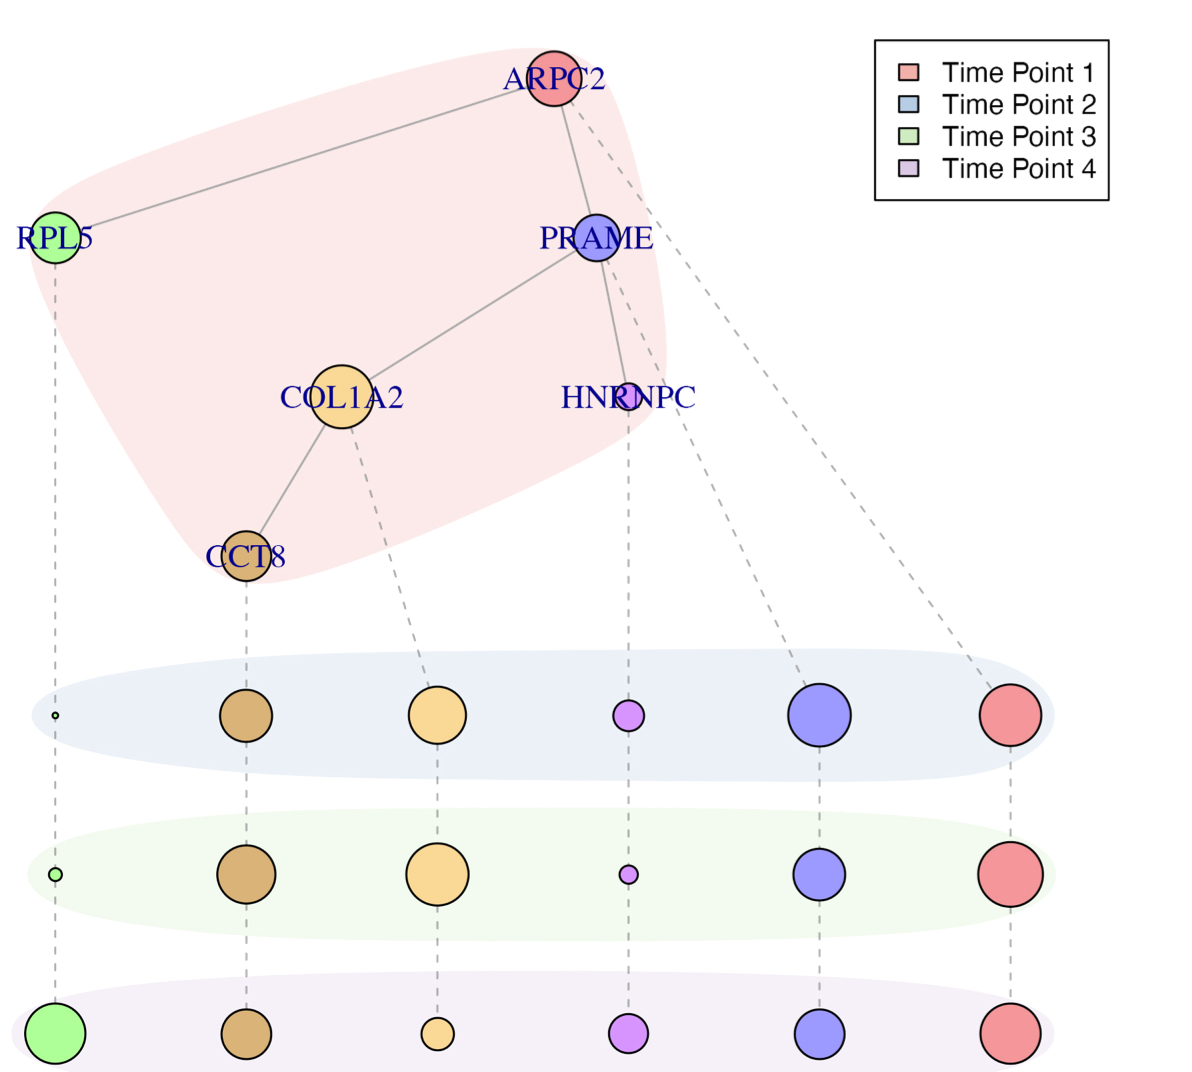
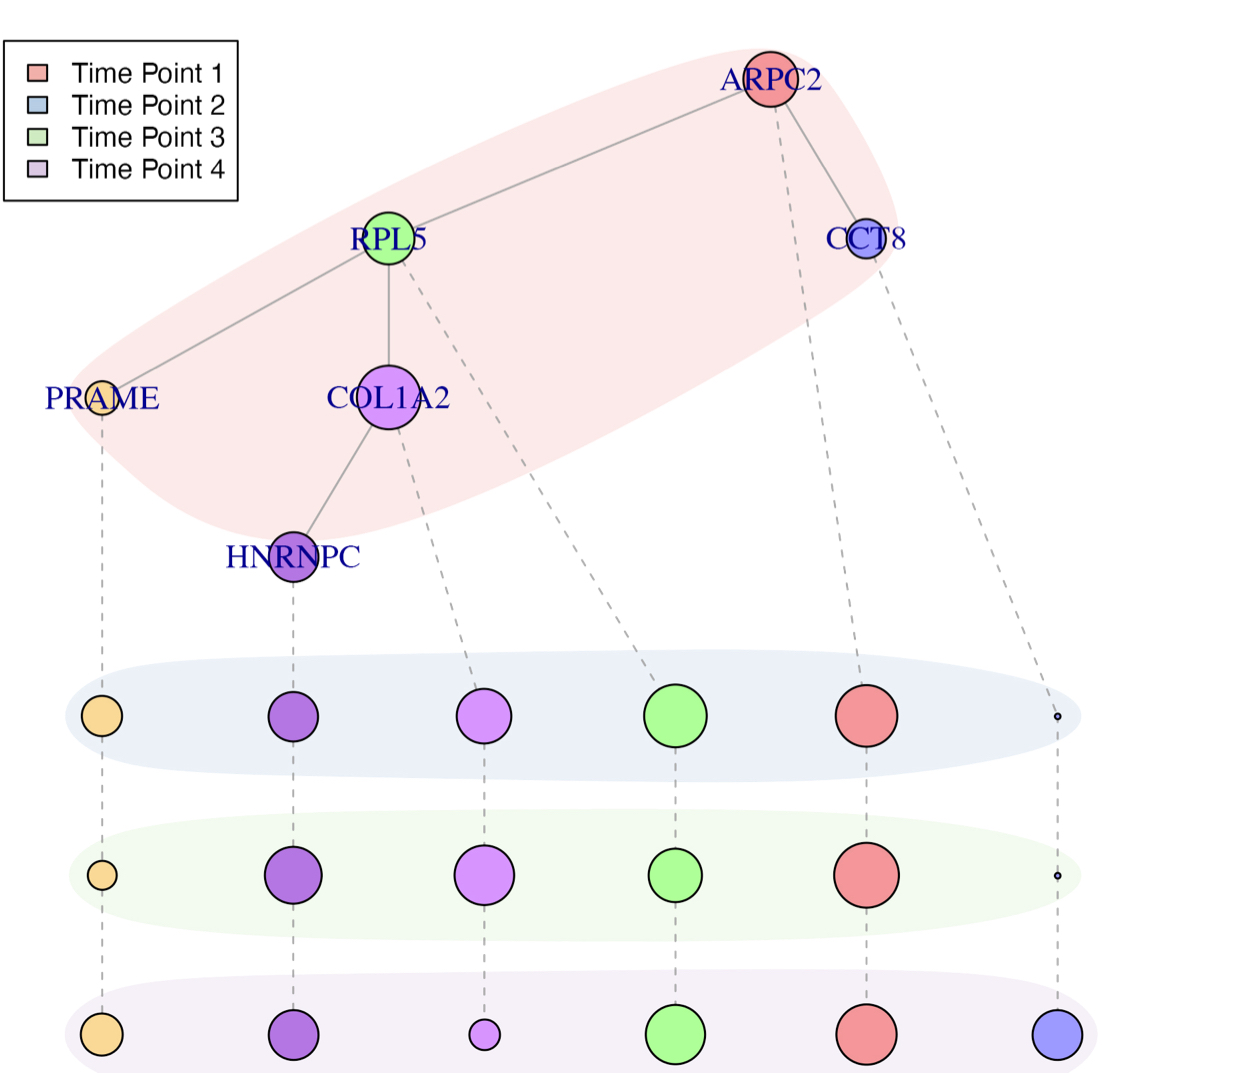
documentation

diff --git a/README.md b/README.md
@@ -126,7 +126,8 @@ We can plot the inferred model using the function longitudinal.tree.plot.
 clone_labels = c("ARPC2","PRAME","HNRNPC","COL1A2","RPL5","CCT8")
 longitudinal.tree.plot(inference = inference,
                        labels = "clones", 
-                       clone_labels = clone_labels)
+                       clone_labels = clone_labels, 
+                       legend_position = "topleft")
 ```
 
 ![Image](LACE-Ex.jpg)
